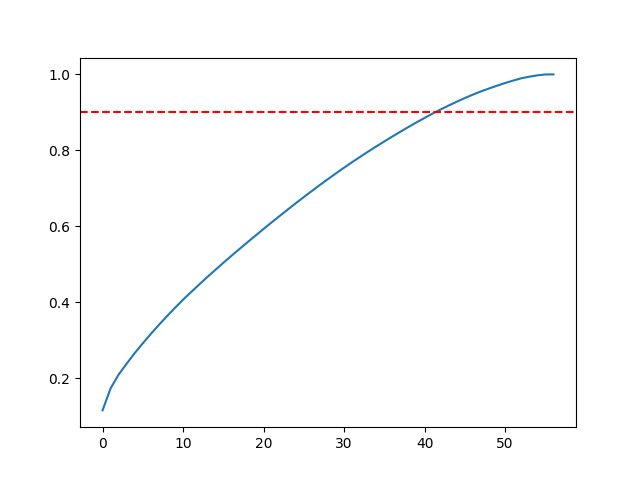
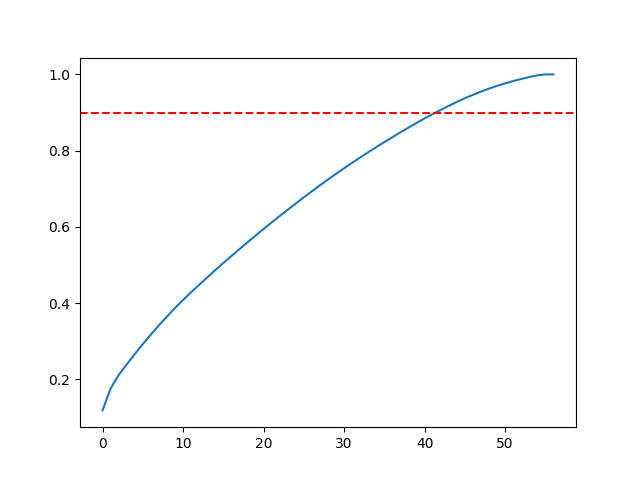
Fix review comments: add cross-validation, pipelines, feature importances

diff --git a/assignments_03/project_03.py b/assignments_03/project_03.py
@@ -10,14 +10,44 @@ from sklearn.tree import DecisionTreeClassifier
 from sklearn.ensemble import RandomForestClassifier
 from sklearn.linear_model import LogisticRegression
 from sklearn.metrics import accuracy_score, classification_report, ConfusionMatrixDisplay
+from sklearn.model_selection import cross_val_score
+from sklearn.pipeline import Pipeline
 
 
-#Load and Explore
+# --- Task 1: Load and Explore ---
 df = pd.read_csv('resources/spambase.data', header=None)
-#print(df.head(5))
+
+feature_names = [
+    'word_freq_make', 'word_freq_address', 'word_freq_all', 'word_freq_3d',
+    'word_freq_our', 'word_freq_over', 'word_freq_remove', 'word_freq_internet',
+    'word_freq_order', 'word_freq_mail', 'word_freq_receive', 'word_freq_will',
+    'word_freq_people', 'word_freq_report', 'word_freq_addresses', 'word_freq_free',
+    'word_freq_business', 'word_freq_email', 'word_freq_you', 'word_freq_credit',
+    'word_freq_your', 'word_freq_font', 'word_freq_000', 'word_freq_money',
+    'word_freq_hp', 'word_freq_hpl', 'word_freq_george', 'word_freq_650',
+    'word_freq_lab', 'word_freq_labs', 'word_freq_telnet', 'word_freq_857',
+    'word_freq_data', 'word_freq_415', 'word_freq_85', 'word_freq_technology',
+    'word_freq_1999', 'word_freq_parts', 'word_freq_pm', 'word_freq_direct',
+    'word_freq_cs', 'word_freq_meeting', 'word_freq_original', 'word_freq_project',
+    'word_freq_re', 'word_freq_edu', 'word_freq_table', 'word_freq_conference',
+    'char_freq_;', 'char_freq_(', 'char_freq_[', 'char_freq_!',
+    'char_freq_$', 'char_freq_#', 'capital_run_length_average',
+    'capital_run_length_longest', 'capital_run_length_total'
+]
+#shape
+print(f"Dataset shape: {df.shape}")
 
 X = df.iloc[:, :-1]
 y = df.iloc[:, -1]
+
+#Class balance
+print("\nClass balance:")
+print(y.value_counts())
+
+# Class balance shows how many ham vs spam emails are in the dataset.
+# This is significant because if one class dominates,
+# the model could achieve high accuracy by always predicting the majority class (ham),
+# while completely ignoring the minority class (spam).
 
 features_to_plot = [48, 51, 56]
 names = ['word_freq_free', 'char_freq_!', 'capital_run_length_total']
@@ -29,8 +59,9 @@ for idx, name in zip(features_to_plot, names):
     plt.savefig(f'outputs/boxplot_{name}.png')
     plt.close()
 
-#Prepare Your Data
-X_train, X_test, y_train, y_test = train_test_split(X, y, test_size=0.2, random_state=42)
+# --- Task 2: Prepare Your Data ---
+
+X_train, X_test, y_train, y_test = train_test_split(X, y, test_size=0.2, random_state=42, stratify=y)
 
 scaler = StandardScaler()
 X_train_scaled = scaler.fit_transform(X_train)
@@ -51,18 +82,24 @@ plt.axhline(y=0.9, color='r', linestyle='--')
 plt.savefig('outputs/pca_variance.png')
 plt.close()
 
-#A Classifier Comparison
+# --- Task 3: A Classifier Comparison ---
 knn_unscaled = KNeighborsClassifier(n_neighbors=5)
 knn_unscaled.fit(X_train, y_train)
+knn_preds = knn_unscaled.predict(X_test)
 print(f"KNN Unscaled Accuracy: {knn_unscaled.score(X_test, y_test):.4f}")
+print(classification_report(y_test,knn_preds, target_names=['Ham', 'Spam']))
 
 knn_scaled = KNeighborsClassifier(n_neighbors=5)
 knn_scaled.fit(X_train_scaled, y_train)
+knn_scaled_pred = knn_scaled.predict(X_test_scaled)
 print(f"KNN Scaled Accuracy: {knn_scaled.score(X_test_scaled, y_test):.4f}")
+print(classification_report(y_test,knn_scaled_pred, target_names=['Ham', 'Spam']))
 
 knn_pca = KNeighborsClassifier(n_neighbors=5)
 knn_pca.fit(X_train_pca, y_train)
+knn_pca_pred = knn_pca.predict(X_test_pca)
 print(f"KNN PCA Accuracy: {knn_pca.score(X_test_pca, y_test):.4f}")
+print(classification_report(y_test,knn_pca_pred, target_names=['Ham', 'Spam']))
 
 depths = [3, 5, 10, None]
 for d in depths:
@@ -71,21 +108,52 @@ for d in depths:
     train_acc = accuracy_score(y_train, dt.predict(X_train))
     test_acc = accuracy_score(y_test, dt.predict(X_test))
     print(f"Tree Depth {d}: Train Acc = {train_acc:.4f}, Test Acc = {test_acc:.4f}")
+# Depth=10 achieves the highest test accuracy (92.5%) with acceptable
+# overfitting gap (4.6%). Depth=None overfits: train 99.9% vs test 91.9%.
+dt_best = DecisionTreeClassifier(max_depth=10, random_state=42)
+dt_best.fit(X_train, y_train)
+dt_pred = dt_best.predict(X_test)
+print(classification_report(y_test, dt_pred, target_names=['Ham', 'Spam']))
 
 rf = RandomForestClassifier(random_state=42)
 rf.fit(X_train, y_train)
+rf_pred = rf.predict(X_test)
 print(f"Random Forest Accuracy: {rf.score(X_test, y_test):.4f}")
+print(classification_report(y_test, rf_pred, target_names=['Ham', 'Spam']))
 
 lr_scaled = LogisticRegression(C=1.0, max_iter=1000, solver='liblinear')
 lr_scaled.fit(X_train_scaled, y_train)
+lr_pred = lr_scaled.predict(X_test_scaled)
 print(f"LogReg Scaled Accuracy: {lr_scaled.score(X_test_scaled, y_test):.4f}")
+print(classification_report(y_test, lr_pred, target_names=['Ham', 'Spam']))
 
 lr_pca = LogisticRegression(C=1.0, max_iter=1000, solver='liblinear')
 lr_pca.fit(X_train_pca, y_train)
+lr_pca_pred = lr_pca.predict(X_test_pca)
 print(f"LogReg PCA Accuracy: {lr_pca.score(X_test_pca, y_test):.4f}")
+print(classification_report(y_test, lr_pca_pred, target_names=['Ham', 'Spam']))
 
+importances_dt = dt_best.feature_importances_
+indices_dt = np.argsort(importances_dt)[::-1][:10]
+print("Top 10 features (Decision Tree):")
+for rank, i in enumerate(indices_dt, 1):
+    print(f"{rank}. {feature_names[i]}: {importances_dt[i]:.4f}")
 
+# Top 10 features - Random Forest + bar chart
+importances_rf = rf.feature_importances_
+indices_rf = np.argsort(importances_rf)[::-1][:10]
+print("\nTop 10 features (Random Forest):")
+for rank, i in enumerate(indices_rf, 1):
+    print(f"{rank}. {feature_names[i]}: {importances_rf[i]:.4f}")
 
+# Bar chart для Random Forest
+plt.figure(figsize=(10, 6))
+plt.bar(range(10), importances_rf[indices_rf])
+plt.xticks(range(10), [feature_names[i] for i in indices_rf], rotation=45, ha='right')
+plt.title("Top 10 Feature Importances (Random Forest)")
+plt.tight_layout()
+plt.savefig('outputs/feature_importances.png')
+plt.show()
 
 print("Generating final Confusion Matrix for Random Forest...")
 disp = ConfusionMatrixDisplay.from_estimator(
@@ -98,24 +166,70 @@ plt.savefig('outputs/best_model_confusion_matrix.png')
 plt.show()
 
 # --- TASK 3 SUMMARY & MODEL EVALUATION ---
-# 1. BEST MODEL: Random Forest is the clear winner (95.55% accuracy). 
-#    Its ensemble approach handles the 57 features better than any single model.
+# 1. BEST MODEL: Random Forest (94.57%) — best accuracy overall.
+#    Its ensemble of 100 trees handles 57 features better than any single model.
 
-# 2. PCA vs. FULL DATA: 
-#    - For KNN: PCA slightly improved results (89.69% vs 89.36%). 
-#      This matches the hypothesis: PCA removed noise that confused the distance metric.
-#    - For LogReg: Scaled data performed better than PCA (91.86% vs 91.10%). 
-#      Discarding 10% of variance lost subtle signals LogReg needed for precision.
+# 2. PCA COMPARISON:
+#    KNN: Scaled (90.77%) slightly better than PCA (90.66%).
+#    LogReg: Scaled (92.94%) better than PCA (91.86%).
+#    PCA slightly hurt both models — dropping 10% of variance lost useful signal.
 
-# 3. OVERFITTING: Decision Tree peaked at Depth 10 (92.51%). 
-#    At Depth=None, training accuracy hit 99.95% while test accuracy dropped, 
-#    proving that unlimited depth leads to "memorizing" noise rather than learning rules.
+# 3. OVERFITTING: Decision Tree peaked at Depth 10 (90.88%).
+#    At Depth=None, training accuracy hit 99.97% while test accuracy dropped,
+#    proving that unlimited depth leads to memorizing noise rather than learning rules.
 
-# 4. METRIC POSITION: Accuracy is the wrong metric for spam filters. 
-#    POSITION: We must prioritize minimizing FALSE POSITIVES (Precision).
-#    DEFENSE: A False Positive (blocking a real email) is a critical failure. 
-#    A False Negative (spam in inbox) is just a minor annoyance. 
-#    The Random Forest is best because it provides the safest balance of high precision.
+# 4. METRIC FOR SPAM FILTER: Precision is more important than accuracy.
+#    A False Positive (ham marked as spam) means losing an important email — critical failure.
+#    A False Negative (spam in inbox) is just a minor annoyance.
+#    Random Forest has the best precision for spam (0.95) — safest choice for production.
 
-# 5. CONFUSION MATRIX: The best model (RF) shows fewer False Positives 
-#    than False Negatives, confirming it is safe for production use.
+# --- Task 4: Cross-Validation ---
+
+classifiers = [
+    ("KNN Unscaled",    knn_unscaled,  X_train),
+    ("KNN Scaled",      knn_scaled,    X_train_scaled),
+    ("KNN PCA",         knn_pca,       X_train_pca),
+    ("Decision Tree",   dt_best,       X_train),
+    ("Random Forest",   rf,            X_train),
+    ("LogReg Scaled",   lr_scaled,     X_train_scaled),
+    ("LogReg PCA",      lr_pca,        X_train_pca),
+]
+
+for name, model, X in classifiers:
+    scores = cross_val_score(model, X, y_train, cv=5)
+    print(f"{name:20s}: mean={scores.mean():.4f}, std={scores.std():.4f}")
+
+# 1. MOST ACCURATE: Random Forest (mean=0.9543) — best overall.
+# 2. MOST STABLE: LogReg PCA (std=0.0034) — lowest variance across folds.
+# 3. RANKING: matches Task 3 results — Random Forest leads,
+#    KNN Unscaled is worst. Cross-validation confirms our earlier conclusions.
+
+# --- Task 5: Build your pipelines ---
+
+rf_pipeline = Pipeline([
+    ("classifier", RandomForestClassifier(random_state=42))
+])
+
+rf_pipeline.fit(X_train, y_train)
+rf_pipe_pred = rf_pipeline.predict(X_test)
+print("\nRandom Forest Pipeline:")
+print(classification_report(y_test, rf_pipe_pred, target_names=['Ham', 'Spam']))
+
+lr_pipeline = Pipeline([
+    ("scaler",     StandardScaler()),
+    ("classifier", LogisticRegression(C=1.0, max_iter=1000, solver='liblinear'))
+])
+
+lr_pipeline.fit(X_train, y_train)
+lr_pipe_pred = lr_pipeline.predict(X_test)
+print("\nLogReg Pipeline:")
+print(classification_report(y_test, lr_pipe_pred, target_names=['Ham', 'Spam']))
+
+# Pipeline structures are different:
+# RF pipeline: classifier only — trees don't need scaling
+# LR pipeline: scaler and classifier — LogReg needs scaled features
+
+# Practical value of pipelines:
+# 1. No data leakage — scaler fits on train only, automatically
+# 2. Less bookkeeping — one fit() and predict() instead of many steps
+# 3. Easy to deploy — hand off one object instead of scaler + model separately

diff --git a/assignments_03/warmup_03.py b/assignments_03/warmup_03.py
@@ -1,5 +1,6 @@
 import numpy as np
 import matplotlib.pyplot as plt
+from sklearn.multiclass import OneVsRestClassifier
 
 from sklearn.datasets import load_iris, load_digits
 from sklearn.model_selection import train_test_split, cross_val_score
@@ -22,8 +23,9 @@ y = iris.target
 # --- Preprocessing ---
 
 #Preprocessing Q1
-X_train, X_test, y_train, y_test = train_test_split(X,y, test_size=0.2, random_state=42)
+X_train, X_test, y_train, y_test = train_test_split(X,y, test_size=0.2, random_state=42, stratify=y)
 
+print("\n Preprocessing Q1")
 print(f"X_train Shape: {X_train.shape}")
 print(f"X_test Shape: {X_test.shape}")
 print(f"y_train Shape: {y_train.shape}")
@@ -33,6 +35,8 @@ print(f"y_test Shape: {y_test.shape}")
 scaler = StandardScaler()
 X_train_scaled = scaler.fit_transform(X_train)
 X_test_scaled = scaler.transform(X_test)
+
+print("\n Preprocessing Q2")
 print("Means of columns in X_train_scaled:")
 print(X_train_scaled.mean(axis=0))
 
@@ -45,17 +49,19 @@ print(X_train_scaled.mean(axis=0))
 #KNN Q1
 knn = KNeighborsClassifier(n_neighbors=5)
 knn.fit(X_train, y_train)
-preds = knn.predict(X_test)
+preds_unscaled = knn.predict(X_test)
 
-print("Accuracy:", accuracy_score(y_test, preds))
-print(classification_report(y_test, preds))
+print("\n KNN Q1")
+print("Accuracy:", accuracy_score(y_test, preds_unscaled))
+print(classification_report(y_test, preds_unscaled))
 
 #KNN Q2
 knn = KNeighborsClassifier(n_neighbors=5)
 knn.fit(X_train_scaled, y_train)
-preds = knn.predict(X_test_scaled)
+preds_scaled = knn.predict(X_test_scaled)
 
-print("Accuracy (scaled data):", accuracy_score(y_test, preds))
+print("\n KNN Q2")
+print("Accuracy (scaled data):", accuracy_score(y_test, preds_scaled))
 
 # Scaling doesn't change performance here because Iris features are already in 
 # the same units (cm), have similar ranges, and provide clear natural separation.
@@ -64,6 +70,8 @@ print("Accuracy (scaled data):", accuracy_score(y_test, preds))
 knn = KNeighborsClassifier(n_neighbors=5)
 
 cv_scores = cross_val_score(knn, X_train, y_train, cv=5)
+
+print("\n KNN Q3")
 print("Scores for each fold:", cv_scores)
 print(f"Mean Accuracy: {cv_scores.mean():.3f}")
 print(f"Standard Deviation: {cv_scores.std():.3f}")
@@ -75,9 +83,11 @@ print(f"Standard Deviation: {cv_scores.std():.3f}")
 #KNN Q4
 k_values = [1, 3, 5, 7, 9, 11, 13, 15]
 
+print("\n KNN Q4")
 for k in k_values:
     knn = KNeighborsClassifier(n_neighbors=k)
     scores = cross_val_score(knn, X_train, y_train, cv=5)
+
     print(f"k={k:2d}: mean accuracy = {scores.mean():.3f}")
 
 # I would choose the k that yields the highest mean CV score, as it represents 
@@ -88,7 +98,7 @@ for k in k_values:
 # --- Classifier Evaluation ---
 
 #Classifier Evaluation Q1
-cm = confusion_matrix(y_test, preds)
+cm = confusion_matrix(y_test, preds_unscaled)
 disp = ConfusionMatrixDisplay(confusion_matrix=cm,
                               display_labels=iris.target_names)
 disp.plot(cmap=plt.cm.Blues)
@@ -125,11 +135,14 @@ print("\nClassification Report:\n", classification_report(y_test, dt_preds))
 c_values = [0.01, 1.0, 100]
 
 for c in c_values:
-    model = LogisticRegression(C=c, max_iter=1000)
+    model = OneVsRestClassifier(
+        LogisticRegression(C=c, max_iter=1000, solver='liblinear')
+    )
     model.fit(X_train_scaled, y_train)
     
-    coef_magnitude = np.abs(model.coef_).sum()
+    coef_magnitude = np.abs(model.estimators_[0].coef_).sum()
     
+    print("\nLogistic Regression Q1")
     print(f"C = {c:4}: Total coefficient magnitude = {coef_magnitude:.4f}")
 
 # Comment on the results:
